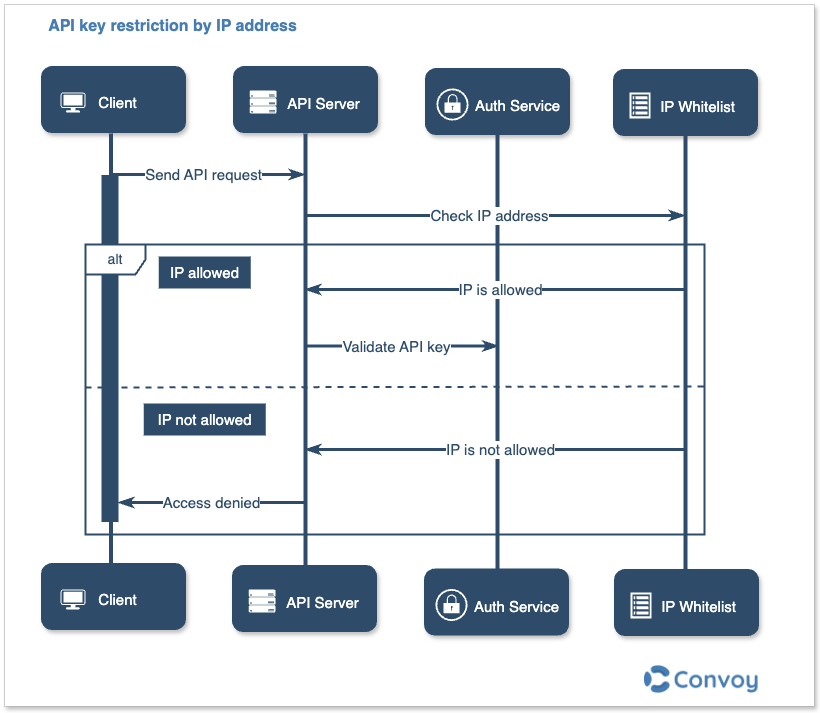
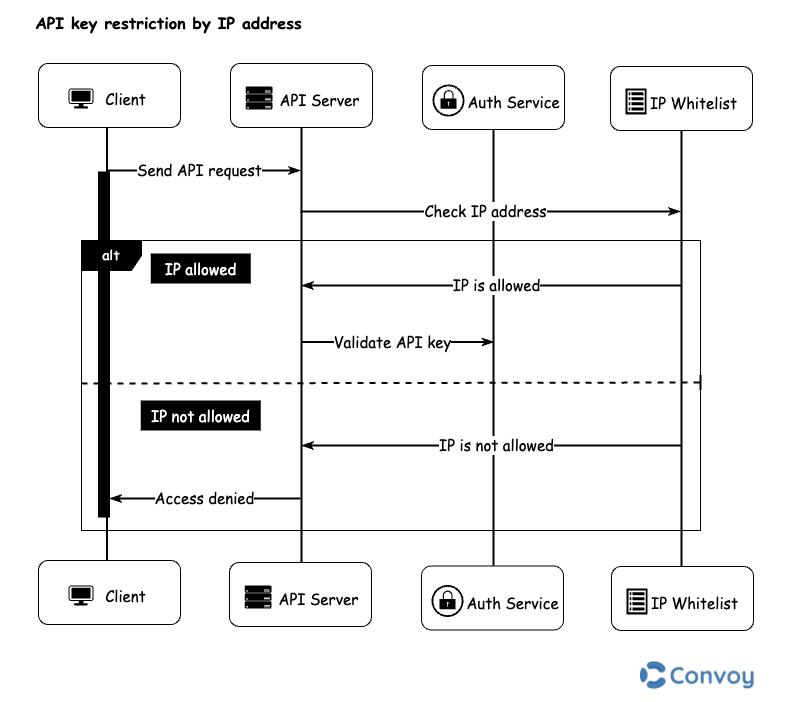
update blog images and add cta

Changed region(s): [[0.0309, 0.0897, 0.9568, 0.8974], [0.0, 0.0, 1.0, 1.0], [0.0309, 0.0, 0.3704, 0.0598]]

diff --git a/src/app/(main)/blog/articles/api-authentication-techniques.md b/src/app/(main)/blog/articles/api-authentication-techniques.md
@@ -1,7 +1,7 @@
 ---
 title: "API Authentication: Techniques & Best practices from Leading API Platforms"
-feature_image: 
-post_image: 
+feature_image: api-authentication-techniques.png
+post_image: api-authentication-techniques.png
 primary_author:
     name: Amarachi Aso
     twitter: AsoAmarachi
@@ -12,13 +12,14 @@ tags:
     - API Authetication
 featured: false
 description: So you want to build secure APIs? Learn about how popular API platforms are implementing the most common API authentication techniques, then choose the best method for your use case.
-published_at: 2023-06-06T17:00:00.000+00:00
+published_at: 2024-06-10T17:00:00.000+00:00
 ---
 
+![api-authentication-techniques.png](/blog-assets/api-authentication-techniques.png)
 
 A large portion of the software market is API-driven, hence it makes sense that many startups and companies building new products want to implement APIs as a way for developers to interact or integrate with their services.
 
-This is a series that will evaluate the mechanisms and best practices that leading API companies are using to build secure, scalable, and user-friendly APIs (And webhooks?). 
+This is a series that will evaluate the mechanisms and best practices that leading API companies are using to build secure, scalable, and user-friendly APIs. 
 
 The first in the series will focus on API authentication.
 
@@ -119,3 +120,6 @@ No one authentication method is 100% secure, each method is simply another layer
 
 The next in the series will go in-depth on authorization. Hope to see you there!
 
+### Getting Started with Convoy
+
+Already have an API, and want to send or receive webhooks from it? Get started in minutes at [cloud.getconvoy.io/signup](http://cloud.getconvoy.io/signup).
